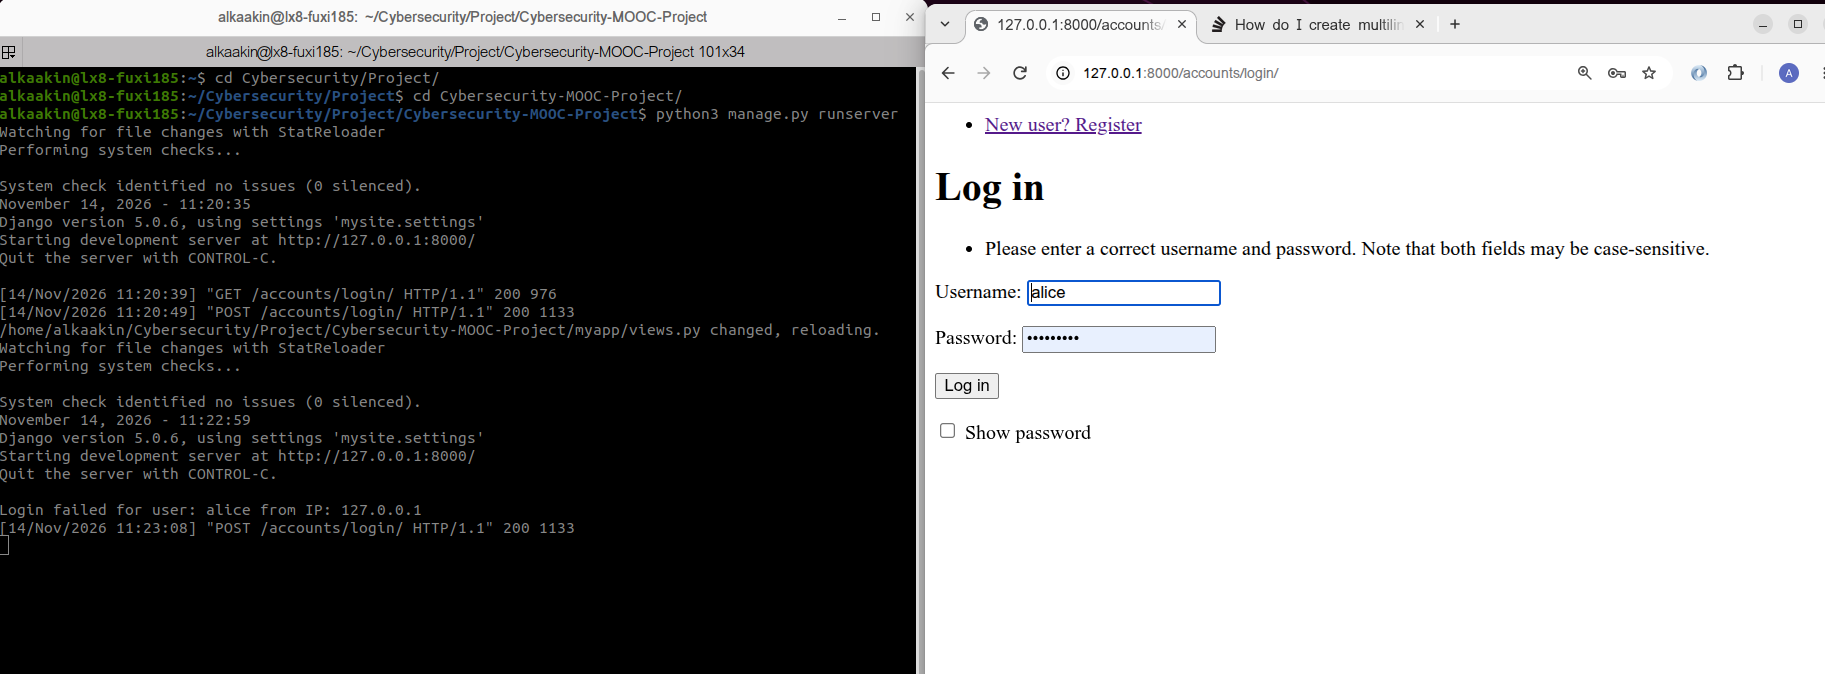
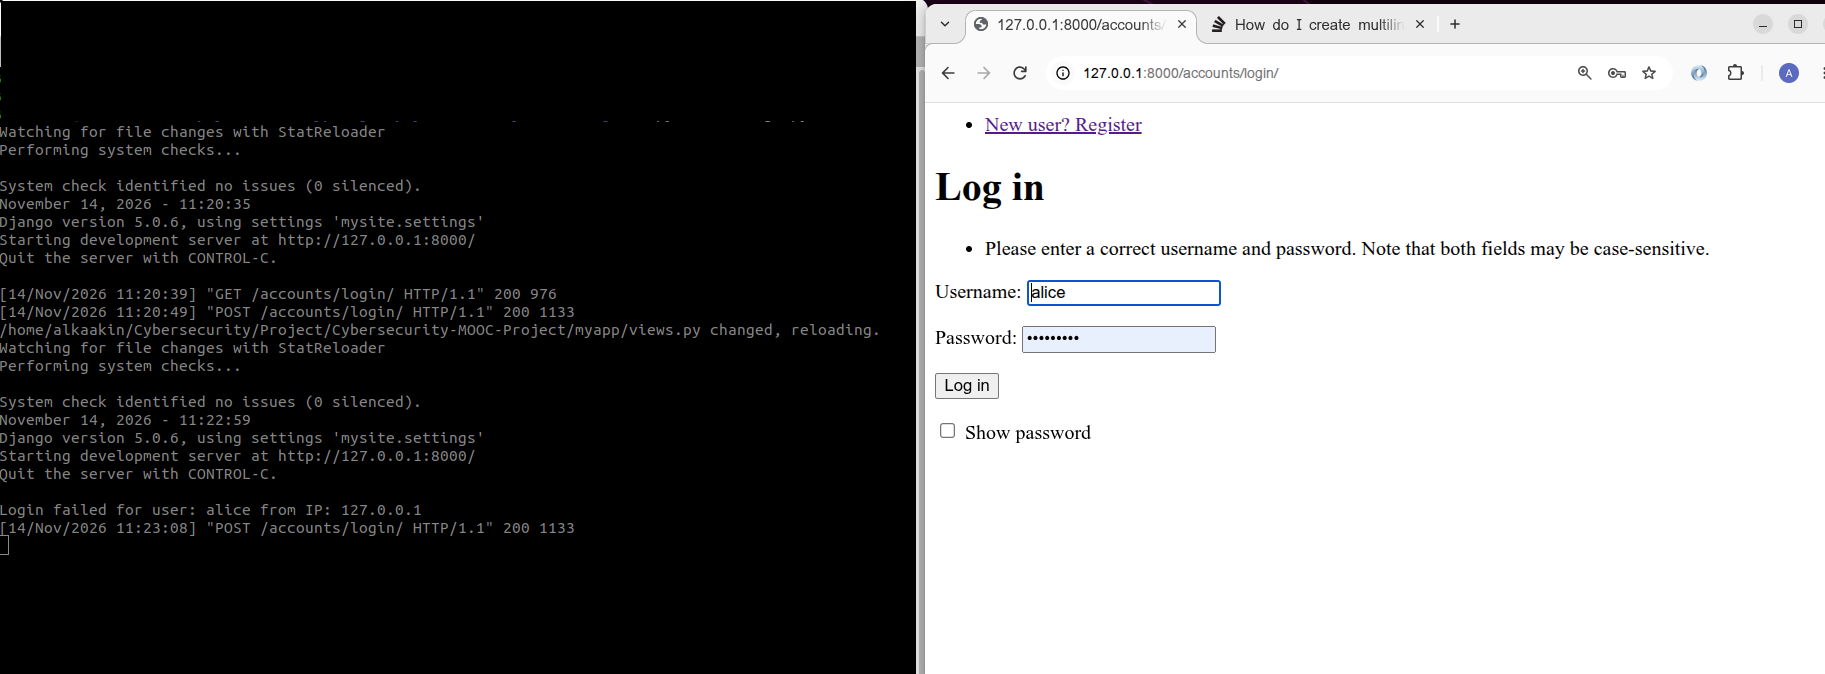
Minor tweaks to settings.py and screenshots.

Changed region(s): [[0.0, 0.0, 0.4997, 0.1869]]

diff --git a/mysite/settings.py b/mysite/settings.py
@@ -104,7 +104,8 @@ AUTH_PASSWORD_VALIDATORS = [
 PASSWORD_HASHERS = [
     # FLAW 2: Weak Password Hashing (OWASP A02:2021)
     "django.contrib.auth.hashers.MD5PasswordHasher",  
-    # FIX: comment out the line above, so that only strong hashers are used
+    # FIX: comment out the line above, so that strong hashers are always prioritized. 
+    # MD5 stays in the list for backward compatibility, but it will not be used for new passwords.
     "django.contrib.auth.hashers.PBKDF2PasswordHasher",
     "django.contrib.auth.hashers.PBKDF2SHA1PasswordHasher",
     "django.contrib.auth.hashers.Argon2PasswordHasher",
